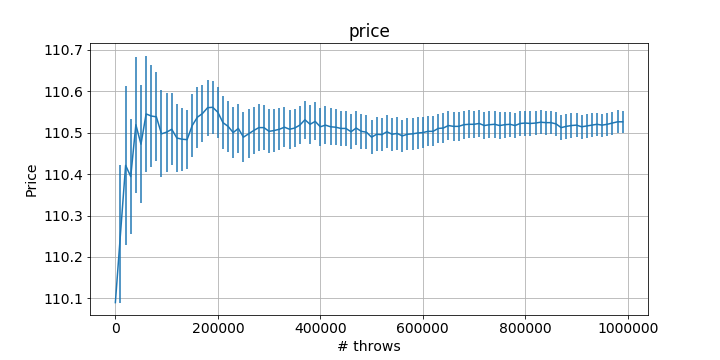
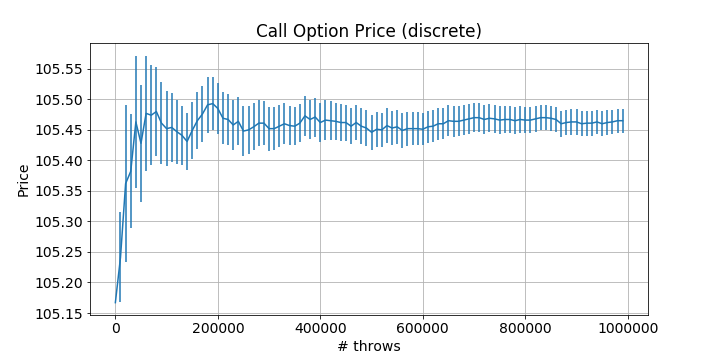
implemented calls and puts

diff --git a/esercizio_3/rng/main.cpp b/esercizio_3/rng/main.cpp
@@ -72,8 +72,10 @@ int main (int argc, char *argv[]){
 
    // 3.1.1 - Direct Sampling of GBM
 
-   int M = 100000;
+   int M = 10000;
    int N = 100;
+
+   double diff;
 
    vector<double> ave(N,0);
    vector<double> av2(N,0);
@@ -83,11 +85,11 @@ int main (int argc, char *argv[]){
       for (int j = 0; j < M; j++){
          S_t = GBM(S,T,r,sigma,rnd);
 
-         ave[i] += exp(-r*T)* max(0,K-S_t);
+         diff = S_t-K;
+         ave[i] += exp(-r*T)*max(0.,diff); // Call Price
       }
 
       ave[i] /= M; // average price
-
       av2[i] = ave[i]*ave[i];
    }
 
@@ -112,7 +114,8 @@ int main (int argc, char *argv[]){
          for (int k = 0; k < timesteps; k++){   
             S_t = GBM(S_t,t,r,sigma,rnd);
          }
-         ave[i] += exp(-r*T)* max(0, S_t-K); // max doesn't work this way
+         diff = S_t-K;
+         ave[i] += exp(-r*T)*max(0., diff); // Call Price
       }
       ave[i] /= M;
       av2[i] = ave[i]*ave[i];

diff --git a/esercizio_3/rng/GeometricBrownianMotion.cpp b/esercizio_3/rng/GeometricBrownianMotion.cpp
@@ -10,10 +10,6 @@ float GBM(float S, float T, float mu, float sigma , Random & rnd){
 	return S*exp( (mu-0.5 * sigma*sigma)*T + sigma*rnd.Gauss(0,1)*sqrt(T));
 }
 
-float buyer(float S, float K){
-	
-}
-
 // Black-Scholes:
 
 float N(float x){
